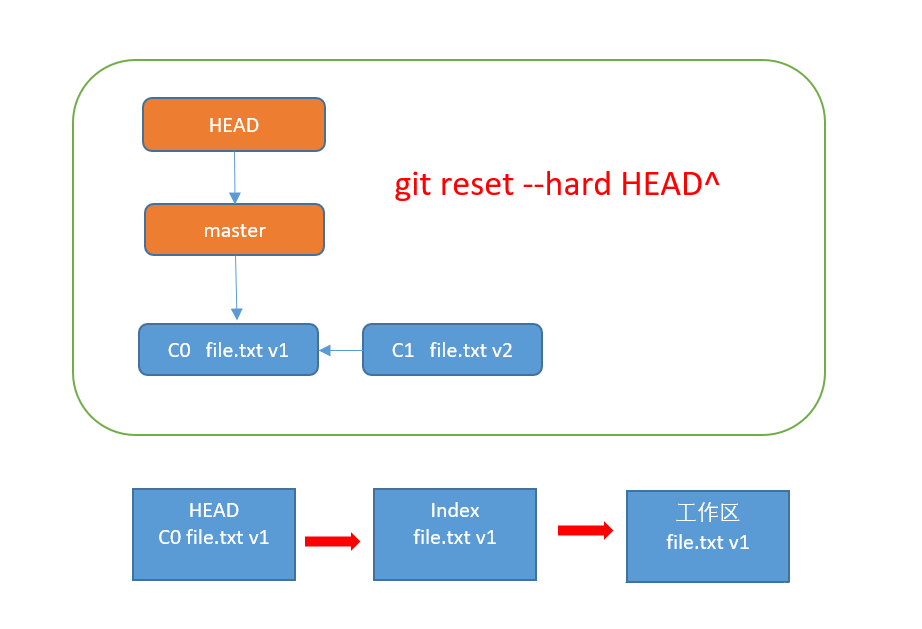
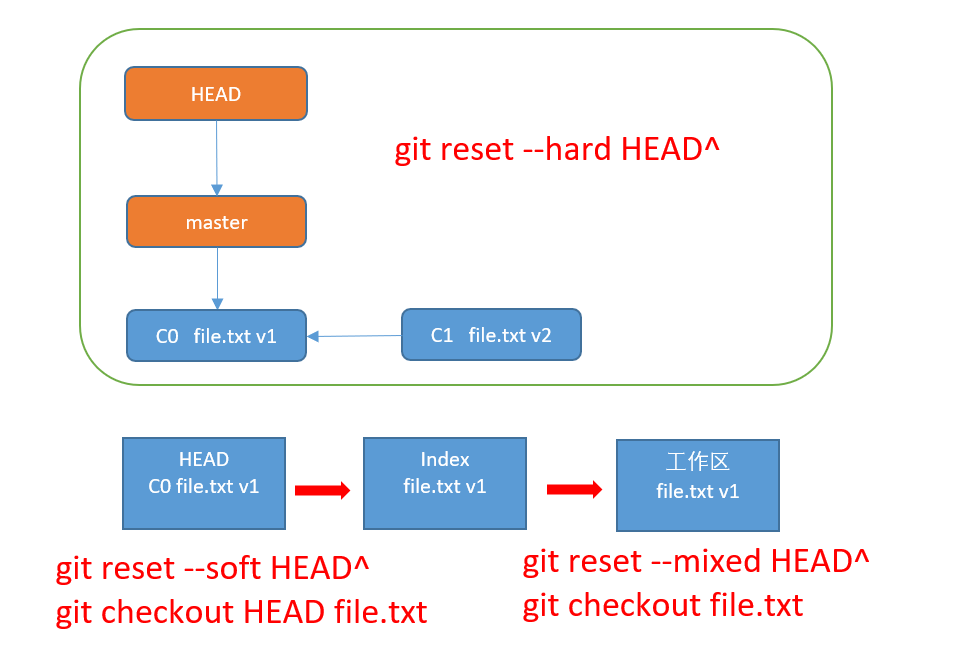
回去再写把

diff --git a/git-study/index.md b/git-study/index.md
@@ -759,7 +759,6 @@ Git是一个分布式版本控制系统. 版本控制是一种记录一个或多
 
     这是 GitHub 和 GitLab 最常用的工作流程。
 
-# Git内部概念
 
 # 撤销修改
 
@@ -806,7 +805,7 @@ Git是一个分布式版本控制系统. 版本控制是一种记录一个或多
     #
     ```
 
-  - ## 撤销文件修改
+- ## 撤销文件修改
 
     如果不想保留`hello.cpp`文件的修改还原成上一次提交的样子.
 
@@ -819,6 +818,14 @@ Git是一个分布式版本控制系统. 版本控制是一种记录一个或多
     #
     #       new file:   a
     #
+
+    $ git reset HEAD a
+    it ss
+    # On branch issue
+    # Untracked files:
+    #   (use "git add <file>..." to include in what will be committed)
+    #
+    #       a
     ```
 
 - ## 撤销如何实现的
@@ -886,7 +893,7 @@ Git是一个分布式版本控制系统. 版本控制是一种记录一个或多
 
         <div align="center"><img src="./asset/reset-soft.jpg" width="80%"></div>
 
-        `git reset`作用类似与游标在提交历史中可以任意指定位置.而`git checkout`切换分支的功能,以及将索引区文件覆盖到工作区的功能.
+        `git reset`作用类似与游标在提交历史中可以任意指定位置.而`git checkout`是切换分支的功能,将该分支最后一次提交快照覆盖掉索引区文件和工作区的功能.
 
         我们移动HEAD指针到了倒数第二个递交上.此时我们可以认为我们撤销了一次提交.因为在索引区和工作区都没有变,我们还可以继续修改文件内容.等到合适再提交.类似命令`git commit -amend`
 
@@ -898,4 +905,94 @@ Git是一个分布式版本控制系统. 版本控制是一种记录一个或多
         <div align="center"><img src="./asset/reset-hard.jpg" width="80%"></div>
 
         `git reset --hard`做的事情比`--mixed`又多了点,将索引区和工作目录的文件全部恢复成上一个提交时的快照状态. `--hard`命令比较危险因为你所编辑的文件将会全部被覆盖.
+
+        `git checkout [--] filename`功能可以将索引区文件覆盖掉工作区. `git chekcout tree-ish [--]  filename` 将指定一次提交的文件覆盖掉索引区和工作区.
+
+
+        <div align="center"><img src="./asset/reset-filepath.jpg" width="80%"></div>
+
+        如果`git reset`后面接一个文件,只是将这个文件覆盖掉索引区.用于已加入缓存的文件删除.
+
+# Git内部概念
+
+从根本上来讲Git是一个内容寻址(content-addressable)文件系统,并在此之上提供了一个版本控制系统的用户界面.
+
+初始化一个仓库之后,会在目录下面创建一个`.git`隐藏目录,让我们看看它有什么内容.
+
+```
+$ tree
+.
+├── branches
+├── config
+├── description
+├── HEAD
+├── hooks
+│   ├── applypatch-msg.sample
+│   ├── commit-msg.sample
+│   ├── post-update.sample
+│   ├── pre-applypatch.sample
+│   ├── pre-commit.sample
+│   ├── prepare-commit-msg.sample
+│   ├── pre-push.sample
+│   ├── pre-rebase.sample
+│   └── update.sample
+├── info
+│   └── exclude
+├── objects
+│   ├── info
+│   └── pack
+└── refs
+    ├── heads
+    └── tags
+```
+
+有四个文件很重要:`HEAD`文件,`index`文件(还未创建),`objects`目录,`refs`目录.
+
+|文件|作用|
+|----|---|
+|HEAD| 文件内容指向被检出的分支|
+|index|文件的暂存信息|
+|objects|目录存储所有数据内容|
+|refs|存放分支|
+
+
+- ## Git对象
+
+    Git的核心部分是一个简单的键值对数据库(key-value data store). 你可以向该数据库插入任意类型的内容,它会返回一个键值,通过该键值可以在任意时刻再次检索(retrieve)该内容. 
+
+    ```
+    $ echo 'test content' | git hash-object -w --stdin
+    d670460b4b4aece5915caf5c68d12f560a9fe3e4
+
+    $ git hash-object -w test.txt
+    83baae61804e65cc73a7201a7252750c76066a30
+
+    $ find .git/objects/ -type f
+    .git/objects/d6/70460b4b4aece5915caf5c68d12f560a9fe3e4
+    .git/objects/83/baae61804e65cc73a7201a7252750c76066a30
+    ```
+
+    可以通过底层命令 hash-object 往Git数据库中添加数据,`-w`选项指示`hash-object`命令存储数据对象.`--stdin`选项则指示该命令从标准输入读取内容,若不指定此选项,则须在命令尾部给出待存储文件的路径.
+    
+    该命令输出一个长度为 40 个字符的校验和.这是一个 SHA-1 哈希值,将待存储的数据外加一个头部信息(header)一起做 SHA-1 校验运算而得的校验和.
+
+    ```
+    $ git cat-file -p d670460b4b4aece5915caf5c68d12f560a9fe3e4
+    test content
+
+    $ git cat-file -t d670460b4b4aece5915caf5c68d12f560a9fe3e4
+    blob
+
+    $ git cat-file -p d670460b4b4aece5915caf5c68d12f560a9fe3e4 > test.txt
+    $ cat test.txt
+    test content
+    ```
+
+    可以通过`cat-file`命令从 Git 那里取回数据,`-p`选项可指示该命令自动判断内容的类型,并为我们显示格式友好的内容. `-t`选项告诉我们保存的是什么类型数据.
+
+- ## 树对象
+
+    blob类型文件只保存文件内容并不保存文件名,tree这个类型数据就可以保存文件名及文件结构的问题.一个树对象每条记录含有一个指向数据对象或者子树对象的指针. 
+
+
 
